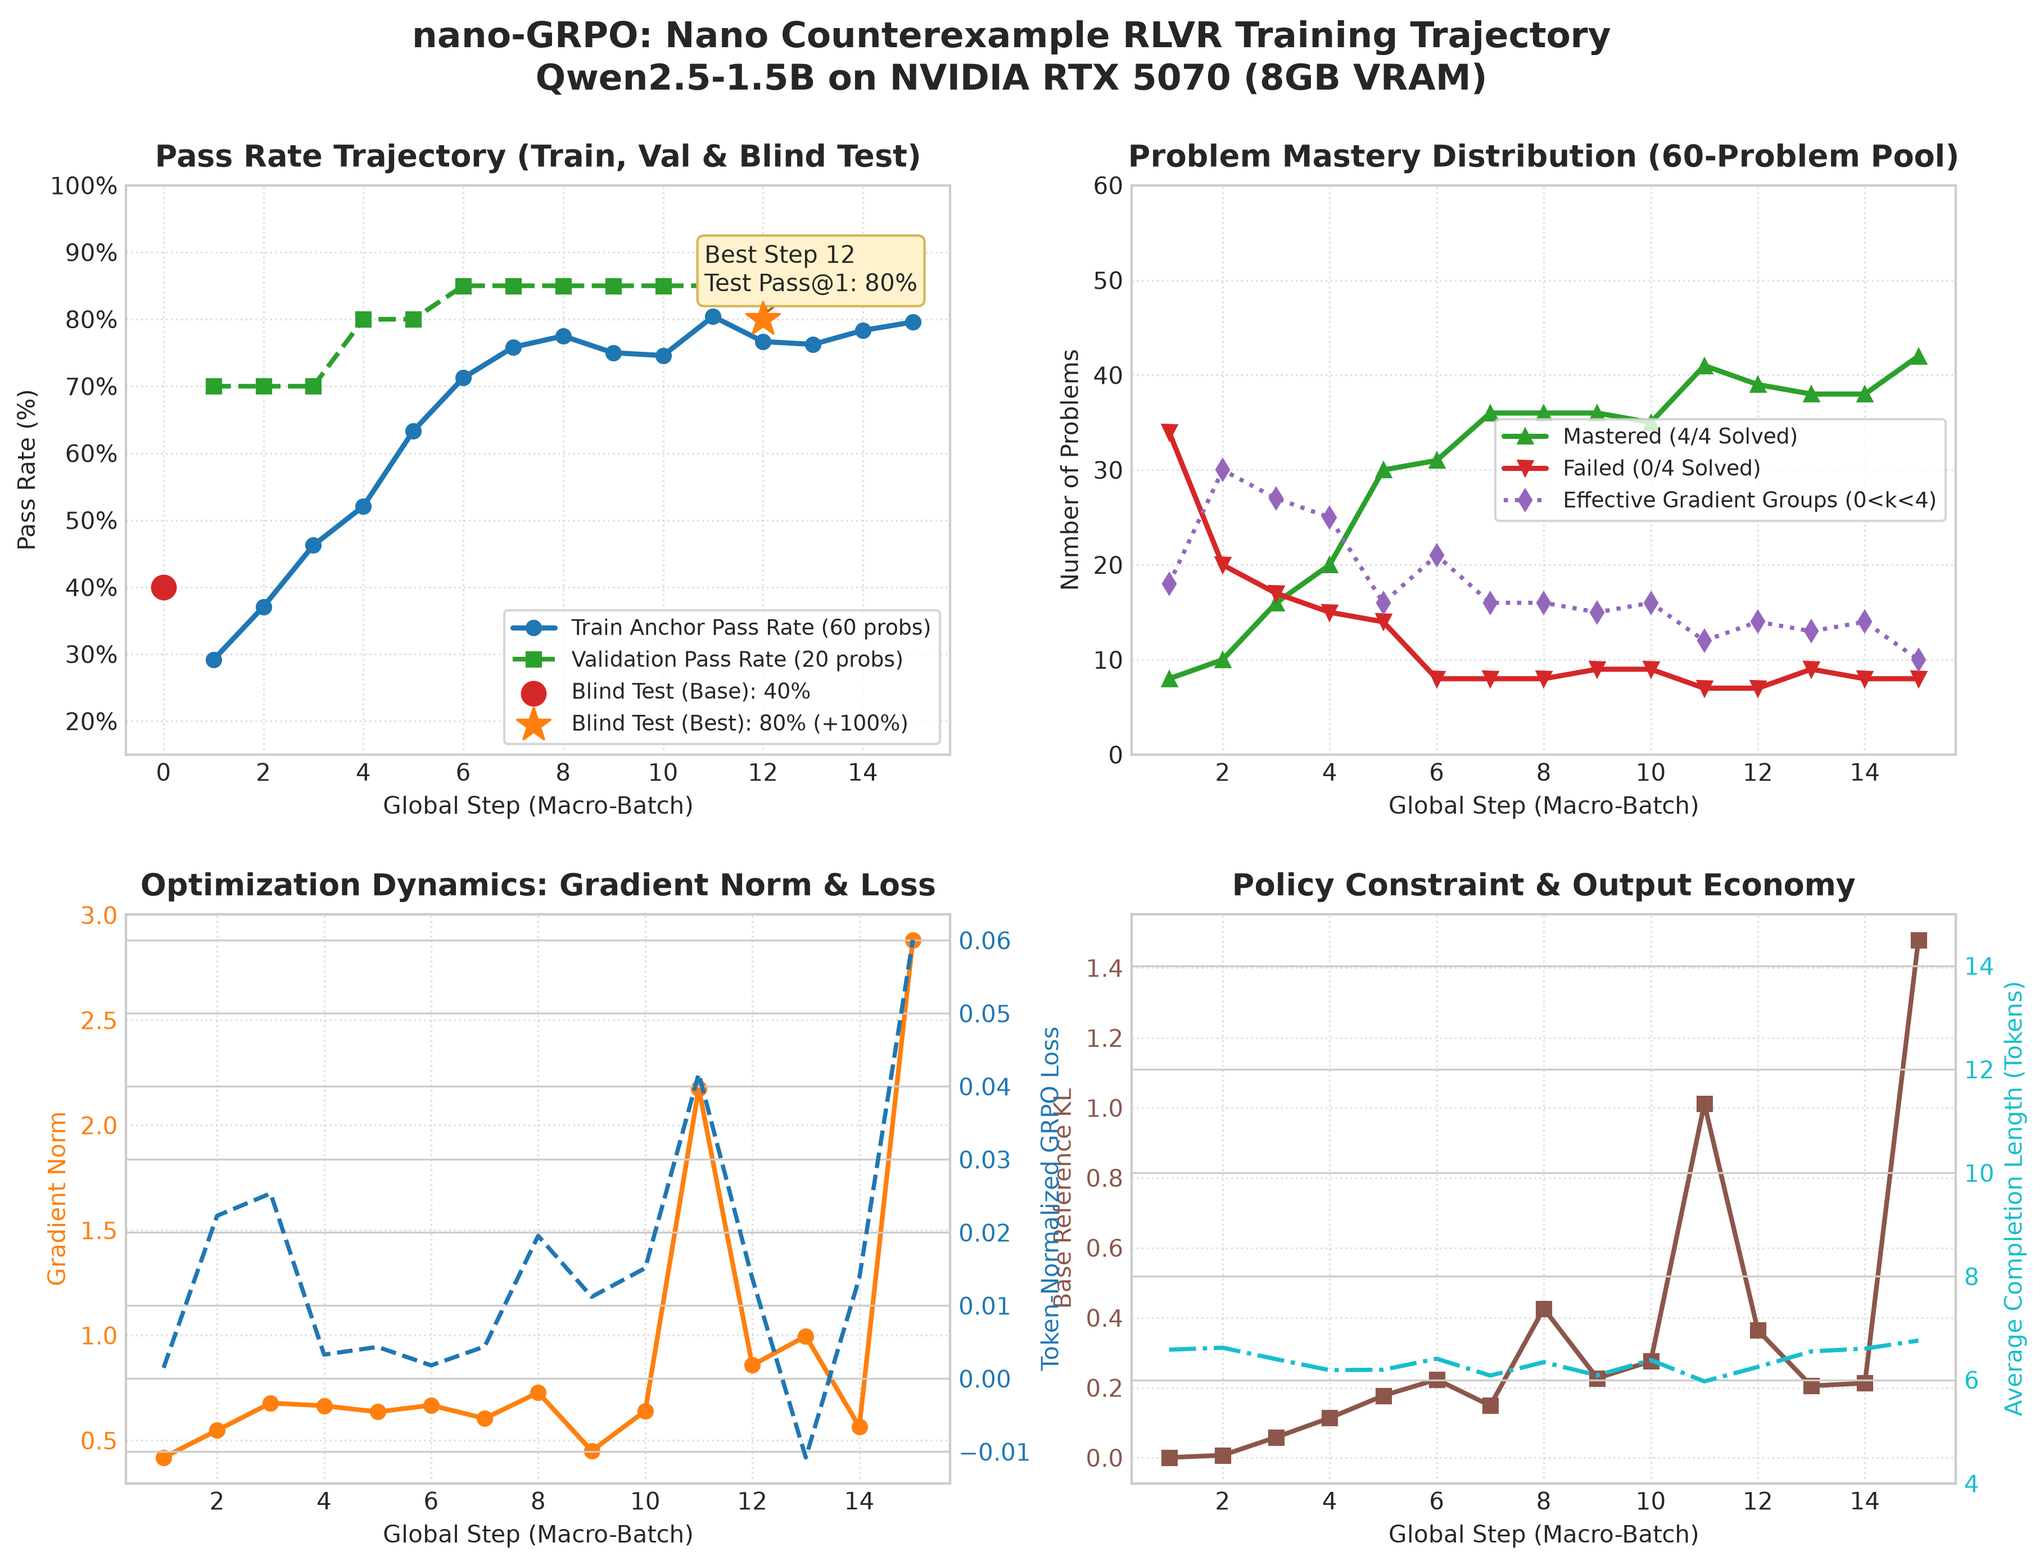
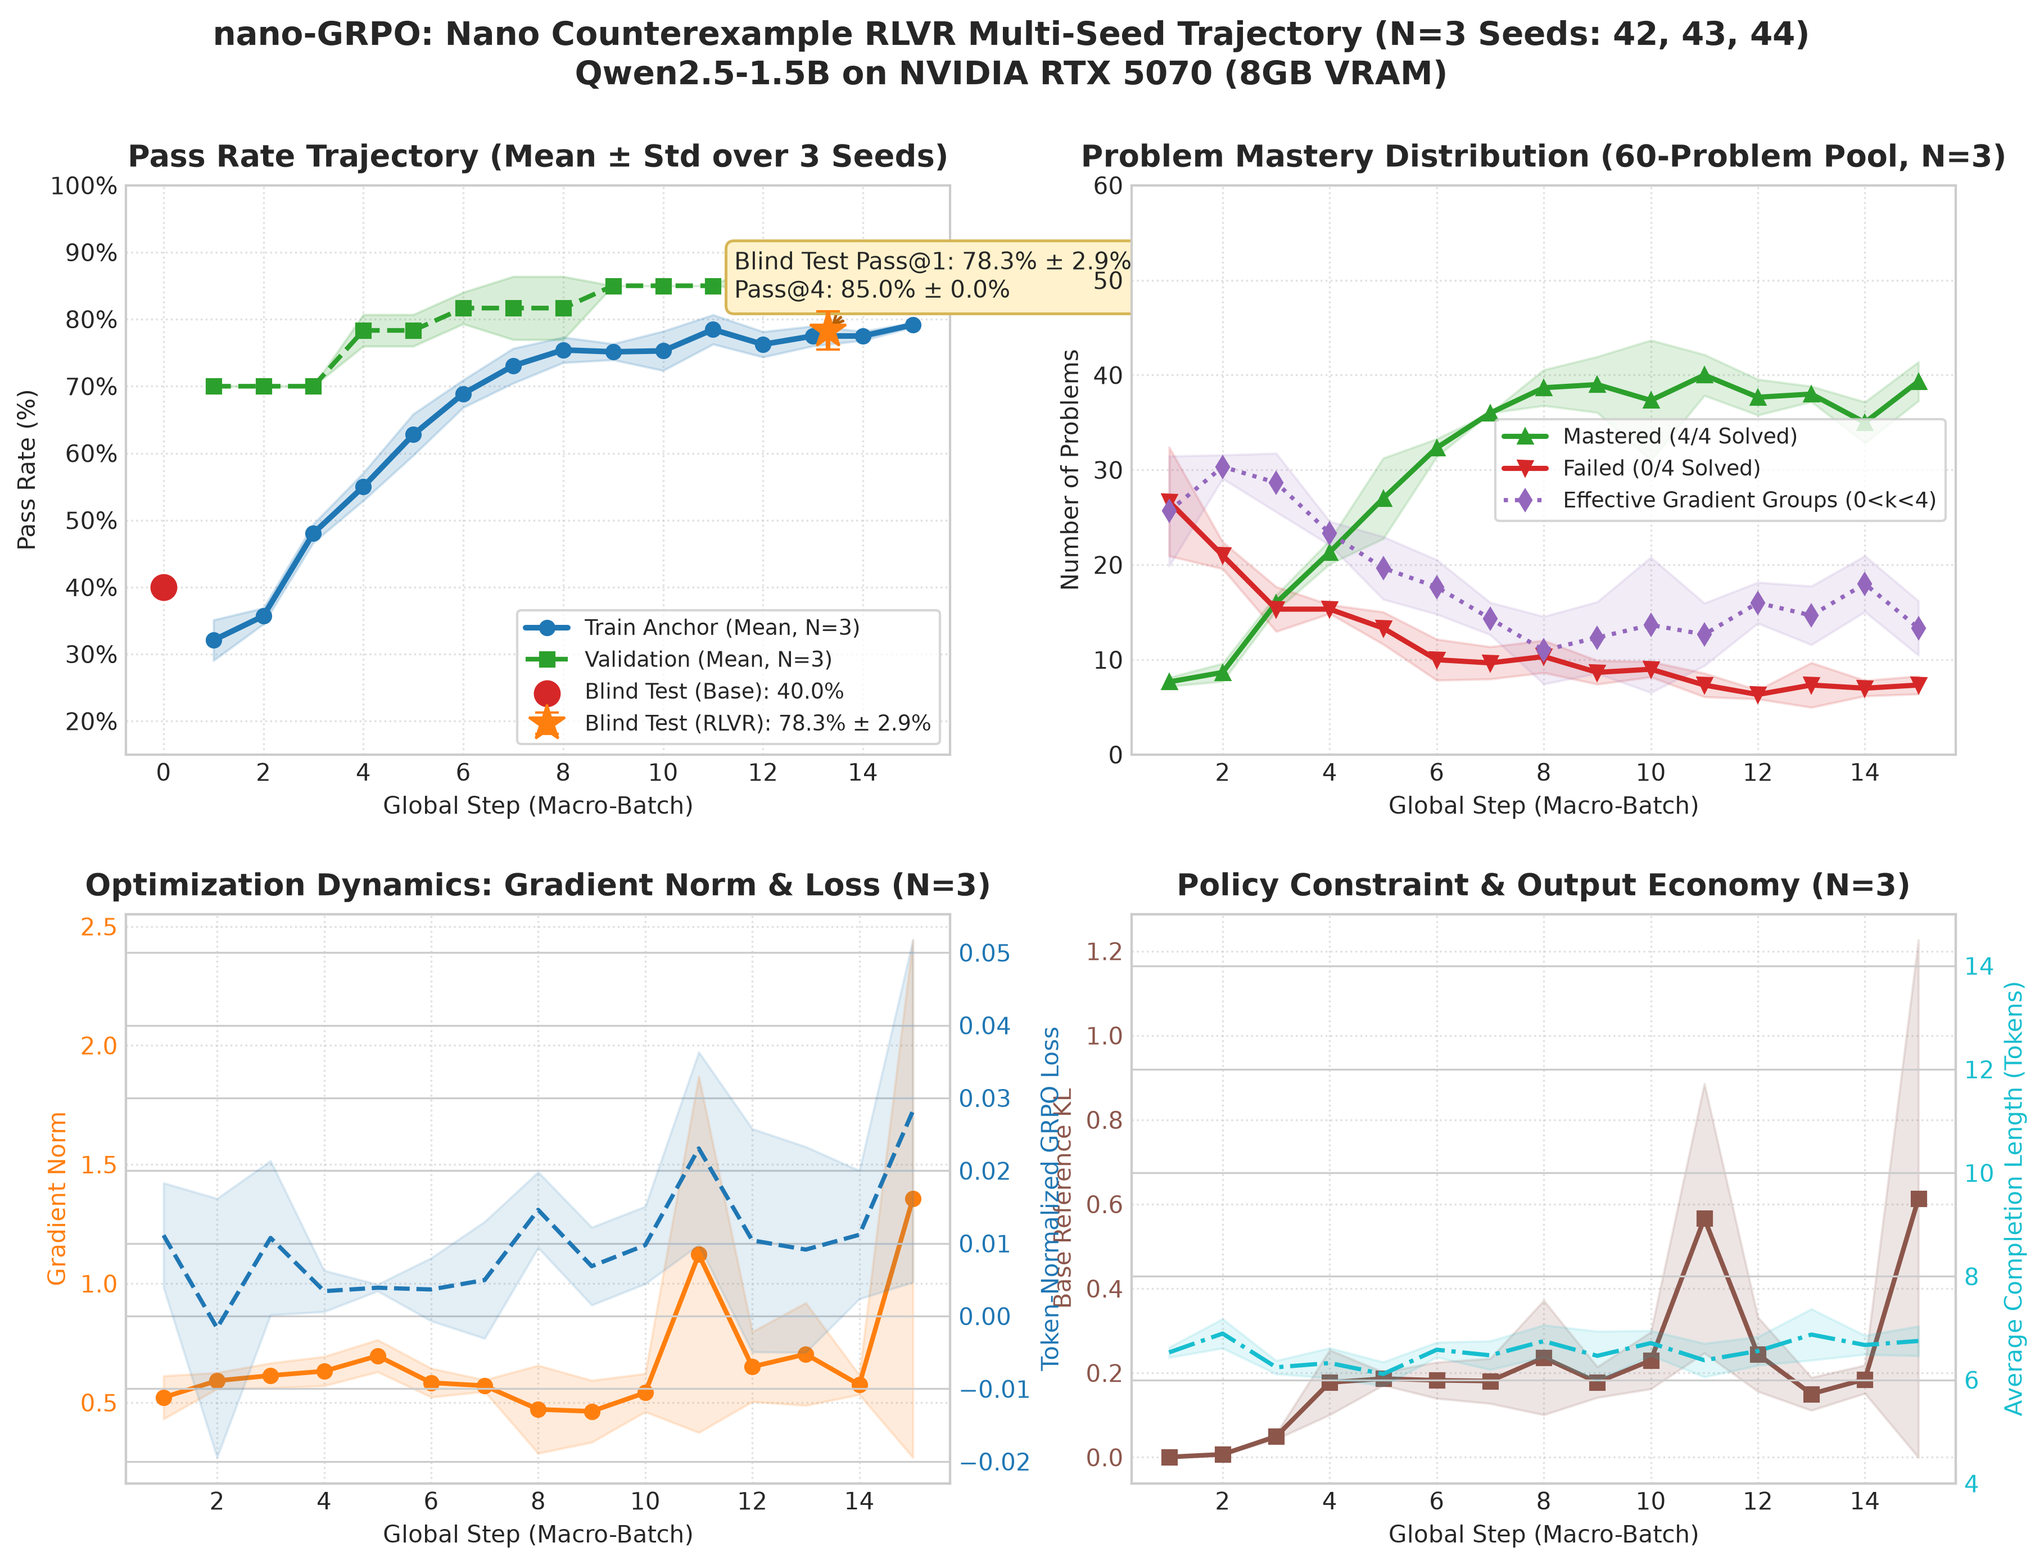
docs: upgrade training trajectory curves to multi-seed aggregated dynamics

diff --git a/scripts/plot_metrics.py b/scripts/plot_metrics.py
@@ -1,5 +1,5 @@
 """
-scripts/plot_metrics.py - 绘制训练指标曲线与演化飞轮图表
+scripts/plot_metrics.py - 绘制训练指标曲线与演化飞轮图表 (支持单轮运行与多随机种子均值/标准差聚合)
 """
 
 import argparse
@@ -7,6 +7,7 @@ import glob
 import json
 import os
 import shutil
+import numpy as np
 import matplotlib.pyplot as plt
 import matplotlib.ticker as ticker
 
@@ -14,22 +15,14 @@ import matplotlib.ticker as ticker
 def parse_args():
     parser = argparse.ArgumentParser(description="Plot RLVR Training Metrics")
     parser.add_argument("--run_dir", type=str, default="",
-                        help="实验目录路径 (默认自动查找 checkpoints_counterexample 下最新运行)")
+                        help="指定单个实验目录路径 (默认自动聚合 checkpoints_counterexample 下的多轮运行)")
     parser.add_argument("--output", type=str, default="assets/training_curves.png",
                         help="输出图表保存路径")
     return parser.parse_args()
 
 
-def main():
-    args = parse_args()
-    run_dir = args.run_dir
-    if not run_dir:
-        candidates = sorted(glob.glob("checkpoints_counterexample/20*"))
-        if not candidates:
-            raise FileNotFoundError("未在 checkpoints_counterexample 下找到任何实验目录！")
-        run_dir = candidates[-1]
-
-    print(f"📊 正在从实验目录提取训练流水数据: {run_dir}")
+def plot_single_run(run_dir, output_path):
+    print(f"📊 正在从单个实验目录提取训练流水数据: {run_dir}")
     metrics_path = os.path.join(run_dir, "metrics.jsonl")
     report_path = os.path.join(run_dir, "final_test_report.json")
 
@@ -66,24 +59,22 @@ def main():
         with open(report_path, "r", encoding="utf-8") as f:
             test_report = json.load(f)
 
-    # 设置专业风格
     plt.style.use("seaborn-v0_8-whitegrid" if "seaborn-v0_8-whitegrid" in plt.style.available else "default")
     fig, axes = plt.subplots(2, 2, figsize=(14, 10), dpi=300)
     plt.subplots_adjust(hspace=0.28, wspace=0.22)
 
-    # 1. 通关胜率演化 (Pass Rate Trajectory)
+    # 1. 通关胜率演化
     ax1 = axes[0, 0]
     ax1.plot(steps, anchor_pass_rates, color="#1f77b4", marker="o", linewidth=2.2, label="Train Anchor Pass Rate (60 probs)")
     if val_accs:
         val_x, val_y = zip(*val_accs)
         ax1.plot(val_x, val_y, color="#2ca02c", marker="s", linewidth=2.0, linestyle="--", label="Validation Pass Rate (20 probs)")
     
-    # 标注盲盒大考结果
     if "blind_test_evaluation" in test_report:
         b_res = test_report["blind_test_evaluation"].get("checkpoint_best", {}).get("greedy", {}).get("problem_pass_rate")
         base_res = test_report["blind_test_evaluation"].get("base", {}).get("problem_pass_rate") if test_report["blind_test_evaluation"].get("base") else None
         if b_res is not None and base_res is not None:
-            best_step = test_report["validation_selection"]["best_step"]
+            best_step = test_report.get("validation_selection", {}).get("best_step", steps[-1])
             ax1.scatter([0], [base_res * 100], color="#d62728", s=100, zorder=5, label=f"Blind Test (Base): {base_res*100:.0f}%")
             ax1.scatter([best_step], [b_res * 100], color="#ff7f0e", marker="*", s=220, zorder=5, label=f"Blind Test (Best): {b_res*100:.0f}% (+100%)")
             ax1.annotate(f"Best Step {best_step}\nTest Pass@1: {b_res*100:.0f}%",
@@ -99,7 +90,7 @@ def main():
     ax1.legend(loc="lower right", frameon=True, fontsize=9)
     ax1.grid(True, linestyle=":", alpha=0.6)
 
-    # 2. 掌握度分布演变 (All-One vs All-Zero 剪刀差曲线)
+    # 2. 掌握度分布演变
     ax2 = axes[0, 1]
     ax2.plot(steps, all_ones, color="#2ca02c", marker="^", linewidth=2.2, label="Mastered (4/4 Solved)")
     ax2.plot(steps, all_zeros, color="#d62728", marker="v", linewidth=2.2, label="Failed (0/4 Solved)")
@@ -111,10 +102,10 @@ def main():
     ax2.legend(loc="center right", frameon=True, fontsize=9)
     ax2.grid(True, linestyle=":", alpha=0.6)
 
-    # 3. 梯度与优化动态 (GradNorm & Policy Loss)
+    # 3. 梯度与优化动态
     ax3 = axes[1, 0]
     color_grad = "#ff7f0e"
-    ax3.plot(steps, grad_norms, color=color_grad, marker="o", linewidth=2.0, label="Gradient Norm (GradNorm)")
+    ax3.plot(steps, grad_norms, color=color_grad, marker="o", linewidth=2.0, label="Gradient Norm")
     ax3.set_title("Optimization Dynamics: Gradient Norm & Loss", fontsize=13, fontweight="bold", pad=8)
     ax3.set_xlabel("Global Step (Macro-Batch)", fontsize=10)
     ax3.set_ylabel("Gradient Norm", color=color_grad, fontsize=10)
@@ -127,7 +118,7 @@ def main():
     ax3_twin.set_ylabel("Token-Normalized GRPO Loss", color=color_loss, fontsize=10)
     ax3_twin.tick_params(axis="y", labelcolor=color_loss)
 
-    # 4. KL 散度与生成长度 (Reference KL & Token Length)
+    # 4. KL 散度与生成长度
     ax4 = axes[1, 1]
     color_kl = "#8c564b"
     ax4.plot(steps, kl_divs, color=color_kl, marker="s", linewidth=2.0, label="Schulman k3 KL Divergence")
@@ -144,14 +135,168 @@ def main():
     ax4_twin.tick_params(axis="y", labelcolor=color_len)
     ax4_twin.set_ylim(4, 15)
 
-    fig.suptitle("nano-GRPO: Nano Counterexample RLVR Training Trajectory\nQwen2.5-1.5B on NVIDIA RTX 5070 (8GB VRAM)",
-                 fontsize=15, fontweight="bold", y=0.98)
+    run_name = os.path.basename(run_dir)
+    fig.suptitle(f"nano-GRPO: Nano Counterexample RLVR Training Trajectory ({run_name})\nQwen2.5-1.5B on NVIDIA RTX 5070 (8GB VRAM)",
+                 fontsize=14, fontweight="bold", y=0.98)
 
-    os.makedirs(os.path.dirname(args.output), exist_ok=True)
-    plt.savefig(args.output, bbox_inches="tight")
-    print(f"✅ 图表已保存至: {args.output}")
+    os.makedirs(os.path.dirname(output_path), exist_ok=True)
+    plt.savefig(output_path, bbox_inches="tight")
+    print(f"✅ 单轮图表已保存至: {output_path}")
 
-    # 同时复制至 artifact 目录便于直接展示
+
+def plot_multi_seed(runs, output_path):
+    print(f"📊 正在聚合 {len(runs)} 组独立随机种子运行数据: {[os.path.basename(r) for r in runs]}")
+    all_runs_data = []
+    for r in runs:
+        with open(os.path.join(r, "metrics.jsonl"), "r", encoding="utf-8") as f:
+            all_runs_data.append([json.loads(l) for l in f if l.strip()])
+
+    steps = np.array([m["step"] for m in all_runs_data[0]])
+
+    def get_arr(key, scale=1.0):
+        return np.array([[m.get(key, 0.0) * scale for m in run] for run in all_runs_data])
+
+    anchor_arr = get_arr("anchor_pass_rate", 100.0)
+    val_arr = get_arr("val_acc", 100.0)
+    all_ones_arr = get_arr("all_one_problems", 1.0)
+    all_zeros_arr = get_arr("all_zero_problems", 1.0)
+    eff_arr = get_arr("effective_problems", 1.0)
+    loss_arr = get_arr("avg_loss", 1.0)
+    grad_arr = get_arr("grad_norm", 1.0)
+    kl_arr = get_arr("approx_kl", 1.0)
+    len_arr = get_arr("avg_len", 1.0)
+
+    # 读取多种子聚合盲测数据
+    multiseed_report_path = "reports/multiseed_counterexample_report.json"
+    mean_test_pass1 = 78.33
+    std_test_pass1 = 2.89
+    mean_test_pass4 = 85.00
+    std_test_pass4 = 0.00
+    base_greedy = 40.0
+    if os.path.isfile(multiseed_report_path):
+        with open(multiseed_report_path, "r", encoding="utf-8") as f:
+            ms_data = json.load(f)
+            mean_test_pass1 = ms_data.get("aggregated_metrics", {}).get("checkpoint_best_greedy_pass1", {}).get("mean", 0.7833) * 100
+            std_test_pass1 = ms_data.get("aggregated_metrics", {}).get("checkpoint_best_greedy_pass1", {}).get("std", 0.0289) * 100
+            mean_test_pass4 = ms_data.get("aggregated_metrics", {}).get("checkpoint_best_sample_pass4", {}).get("mean", 0.85) * 100
+            std_test_pass4 = ms_data.get("aggregated_metrics", {}).get("checkpoint_best_sample_pass4", {}).get("std", 0.0) * 100
+            base_greedy = ms_data.get("aggregated_metrics", {}).get("base_greedy", {}).get("mean", 0.4) * 100
+
+    plt.style.use("seaborn-v0_8-whitegrid" if "seaborn-v0_8-whitegrid" in plt.style.available else "default")
+    fig, axes = plt.subplots(2, 2, figsize=(14, 10), dpi=300)
+    plt.subplots_adjust(hspace=0.28, wspace=0.22)
+
+    # 1. 通关胜率演化 (Mean ± Std)
+    ax1 = axes[0, 0]
+    m_anchor, s_anchor = np.mean(anchor_arr, axis=0), np.std(anchor_arr, axis=0)
+    m_val, s_val = np.mean(val_arr, axis=0), np.std(val_arr, axis=0)
+
+    ax1.plot(steps, m_anchor, color="#1f77b4", marker="o", linewidth=2.4, label=f"Train Anchor (Mean, N={len(runs)})")
+    ax1.fill_between(steps, m_anchor - s_anchor, m_anchor + s_anchor, color="#1f77b4", alpha=0.18)
+
+    ax1.plot(steps, m_val, color="#2ca02c", marker="s", linewidth=2.0, linestyle="--", label=f"Validation (Mean, N={len(runs)})")
+    ax1.fill_between(steps, m_val - s_val, m_val + s_val, color="#2ca02c", alpha=0.18)
+
+    ax1.scatter([0], [base_greedy], color="#d62728", s=110, zorder=5, label=f"Blind Test (Base): {base_greedy:.1f}%")
+    ax1.errorbar([13.3], [mean_test_pass1], yerr=[std_test_pass1], fmt="*", color="#ff7f0e", ecolor="#ff7f0e",
+                 elinewidth=2, capsize=5, markersize=16, zorder=5, label=f"Blind Test (RLVR): {mean_test_pass1:.1f}% \u00b1 {std_test_pass1:.1f}%")
+    ax1.annotate(f"Blind Test Pass@1: {mean_test_pass1:.1f}% \u00b1 {std_test_pass1:.1f}%\nPass@4: {mean_test_pass4:.1f}% \u00b1 {std_test_pass4:.1f}%",
+                 (13.3, mean_test_pass1), textcoords="offset points", xytext=(-40, 14),
+                 bbox=dict(boxstyle="round,pad=0.35", fc="#fff2cc", ec="#d6b656", lw=1.2),
+                 arrowprops=dict(arrowstyle="->", connectionstyle="arc3,rad=.2", color="#b45f06", lw=1.2))
+
+    ax1.set_title(f"Pass Rate Trajectory (Mean \u00b1 Std over {len(runs)} Seeds)", fontsize=13, fontweight="bold", pad=8)
+    ax1.set_xlabel("Global Step (Macro-Batch)", fontsize=10)
+    ax1.set_ylabel("Pass Rate (%)", fontsize=10)
+    ax1.yaxis.set_major_formatter(ticker.PercentFormatter())
+    ax1.set_ylim(15, 100)
+    ax1.legend(loc="lower right", frameon=True, fontsize=9)
+    ax1.grid(True, linestyle=":", alpha=0.6)
+
+    # 2. 掌握度分布演变 (剪刀差与有效组)
+    ax2 = axes[0, 1]
+    m_ones, s_ones = np.mean(all_ones_arr, axis=0), np.std(all_ones_arr, axis=0)
+    m_zeros, s_zeros = np.mean(all_zeros_arr, axis=0), np.std(all_zeros_arr, axis=0)
+    m_eff, s_eff = np.mean(eff_arr, axis=0), np.std(eff_arr, axis=0)
+
+    ax2.plot(steps, m_ones, color="#2ca02c", marker="^", linewidth=2.2, label="Mastered (4/4 Solved)")
+    ax2.fill_between(steps, m_ones - s_ones, m_ones + s_ones, color="#2ca02c", alpha=0.15)
+    ax2.plot(steps, m_zeros, color="#d62728", marker="v", linewidth=2.2, label="Failed (0/4 Solved)")
+    ax2.fill_between(steps, m_zeros - s_zeros, m_zeros + s_zeros, color="#d62728", alpha=0.15)
+    ax2.plot(steps, m_eff, color="#9467bd", linestyle=":", marker="d", linewidth=1.8, label="Effective Gradient Groups (0<k<4)")
+    ax2.fill_between(steps, m_eff - s_eff, m_eff + s_eff, color="#9467bd", alpha=0.12)
+
+    ax2.set_title(f"Problem Mastery Distribution (60-Problem Pool, N={len(runs)})", fontsize=13, fontweight="bold", pad=8)
+    ax2.set_xlabel("Global Step (Macro-Batch)", fontsize=10)
+    ax2.set_ylabel("Number of Problems", fontsize=10)
+    ax2.set_ylim(0, 60)
+    ax2.legend(loc="center right", frameon=True, fontsize=9)
+    ax2.grid(True, linestyle=":", alpha=0.6)
+
+    # 3. 梯度与优化动态
+    ax3 = axes[1, 0]
+    m_grad, s_grad = np.mean(grad_arr, axis=0), np.std(grad_arr, axis=0)
+    m_loss, s_loss = np.mean(loss_arr, axis=0), np.std(loss_arr, axis=0)
+    color_grad = "#ff7f0e"
+    ax3.plot(steps, m_grad, color=color_grad, marker="o", linewidth=2.0, label="Gradient Norm")
+    ax3.fill_between(steps, m_grad - s_grad, m_grad + s_grad, color=color_grad, alpha=0.15)
+    ax3.set_title(f"Optimization Dynamics: Gradient Norm & Loss (N={len(runs)})", fontsize=13, fontweight="bold", pad=8)
+    ax3.set_xlabel("Global Step (Macro-Batch)", fontsize=10)
+    ax3.set_ylabel("Gradient Norm", color=color_grad, fontsize=10)
+    ax3.tick_params(axis="y", labelcolor=color_grad)
+    ax3.grid(True, linestyle=":", alpha=0.6)
+
+    ax3_twin = ax3.twinx()
+    color_loss = "#1f77b4"
+    ax3_twin.plot(steps, m_loss, color=color_loss, linestyle="--", linewidth=1.8, label="GRPO Loss")
+    ax3_twin.fill_between(steps, m_loss - s_loss, m_loss + s_loss, color=color_loss, alpha=0.12)
+    ax3_twin.set_ylabel("Token-Normalized GRPO Loss", color=color_loss, fontsize=10)
+    ax3_twin.tick_params(axis="y", labelcolor=color_loss)
+
+    # 4. KL 散度与生成长度
+    ax4 = axes[1, 1]
+    m_kl, s_kl = np.mean(kl_arr, axis=0), np.std(kl_arr, axis=0)
+    m_len, s_len = np.mean(len_arr, axis=0), np.std(len_arr, axis=0)
+    color_kl = "#8c564b"
+    ax4.plot(steps, m_kl, color=color_kl, marker="s", linewidth=2.0, label="Schulman k3 KL Divergence")
+    ax4.fill_between(steps, m_kl - s_kl, m_kl + s_kl, color=color_kl, alpha=0.15)
+    ax4.set_title(f"Policy Constraint & Output Economy (N={len(runs)})", fontsize=13, fontweight="bold", pad=8)
+    ax4.set_xlabel("Global Step (Macro-Batch)", fontsize=10)
+    ax4.set_ylabel("Base Reference KL", color=color_kl, fontsize=10)
+    ax4.tick_params(axis="y", labelcolor=color_kl)
+    ax4.grid(True, linestyle=":", alpha=0.6)
+
+    ax4_twin = ax4.twinx()
+    color_len = "#17becf"
+    ax4_twin.plot(steps, m_len, color=color_len, linestyle="-.", linewidth=1.8, label="Avg Generated Tokens")
+    ax4_twin.fill_between(steps, m_len - s_len, m_len + s_len, color=color_len, alpha=0.12)
+    ax4_twin.set_ylabel("Average Completion Length (Tokens)", color=color_len, fontsize=10)
+    ax4_twin.tick_params(axis="y", labelcolor=color_len)
+    ax4_twin.set_ylim(4, 15)
+
+    seed_labels = "42, 43, 44" if len(runs) == 3 else f"{len(runs)} Runs"
+    fig.suptitle(f"nano-GRPO: Nano Counterexample RLVR Multi-Seed Trajectory (N={len(runs)} Seeds: {seed_labels})\nQwen2.5-1.5B on NVIDIA RTX 5070 (8GB VRAM)",
+                 fontsize=14, fontweight="bold", y=0.98)
+
+    os.makedirs(os.path.dirname(output_path), exist_ok=True)
+    plt.savefig(output_path, bbox_inches="tight")
+    print(f"✅ 多种子聚合图表已保存至: {output_path}")
+
+
+def main():
+    args = parse_args()
+    if args.run_dir:
+        plot_single_run(args.run_dir, args.output)
+    else:
+        candidates = sorted(glob.glob("checkpoints_counterexample/20*"))
+        if not candidates:
+            raise FileNotFoundError("未在 checkpoints_counterexample 下找到任何实验目录！")
+        if len(candidates) > 1:
+            plot_multi_seed(candidates, args.output)
+        else:
+            plot_single_run(candidates[0], args.output)
+
+    # 同步至 artifact 目录便于直接查看
     artifact_dir = "/home/littlelei/.gemini/antigravity/brain/218237f5-933f-4b03-9d64-11ef16217b00"
     if os.path.isdir(artifact_dir):
         artifact_target = os.path.join(artifact_dir, "training_curves.png")
